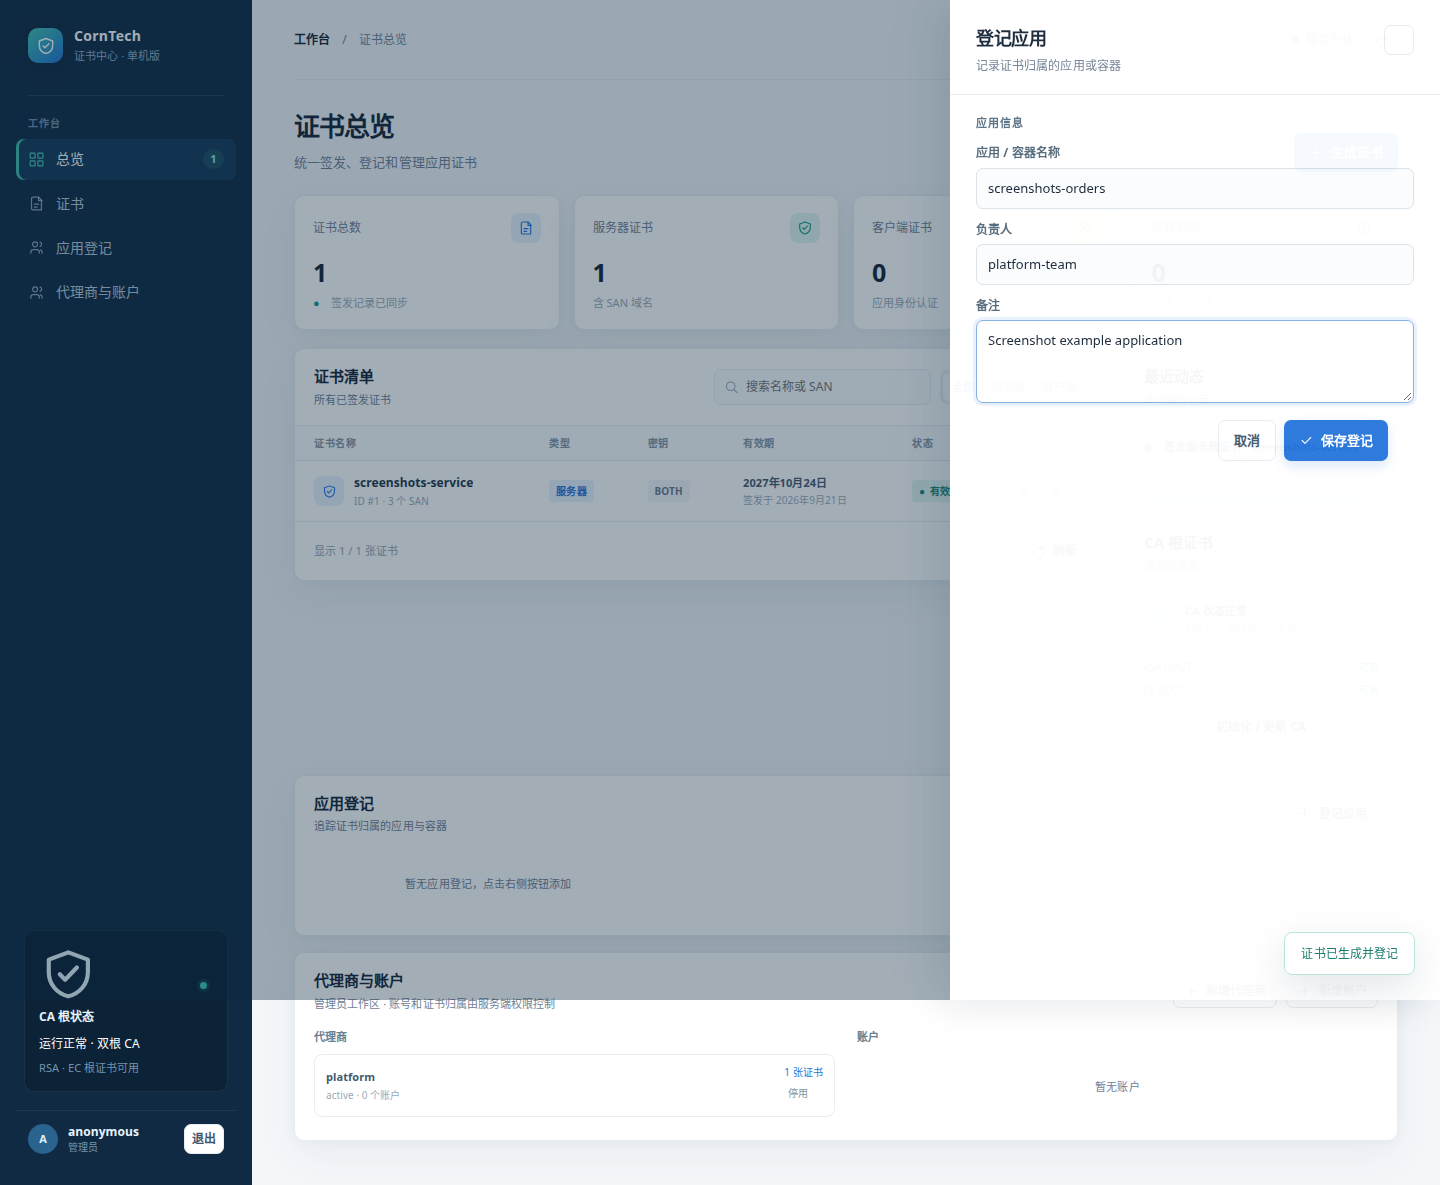
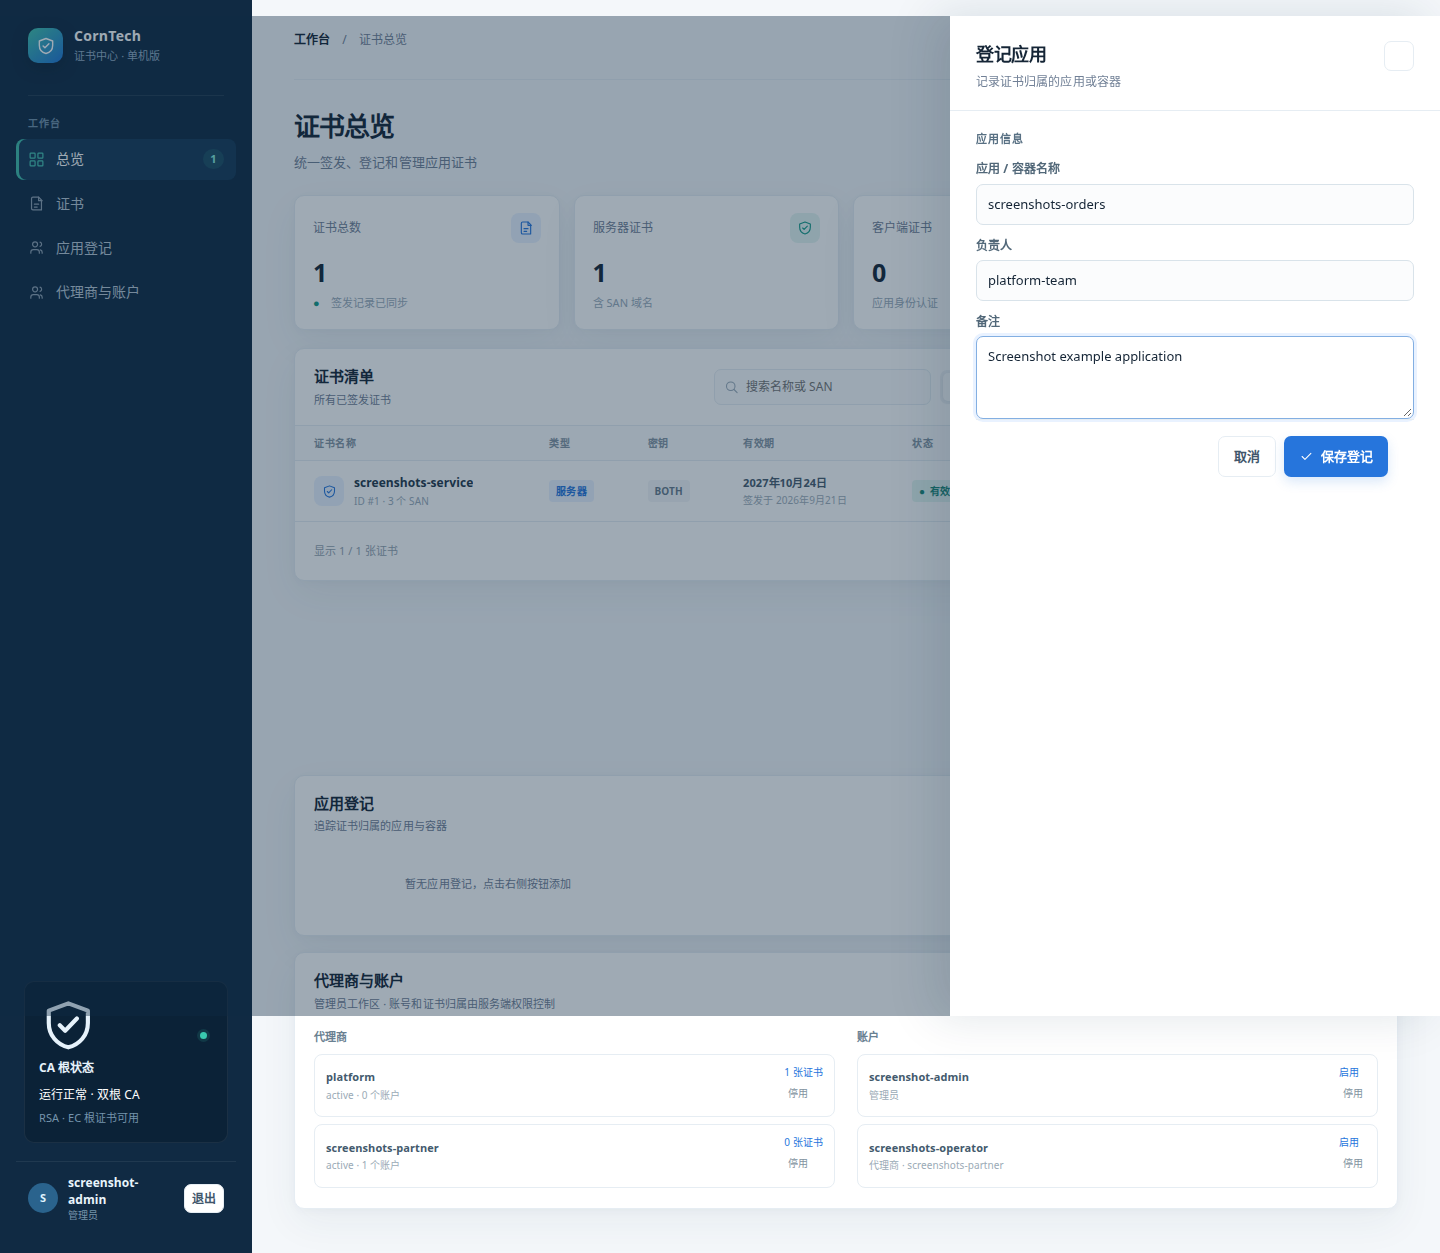
docs: refresh v3 web management screenshots

diff --git a/scripts/capture-screenshots.ts b/scripts/capture-screenshots.ts
@@ -1,4 +1,4 @@
-import { chromium } from 'playwright';
+import { chromium, type Page } from 'playwright';
 import { cp, mkdir, mkdtemp, rm, writeFile } from 'node:fs/promises';
 import { tmpdir } from 'node:os';
 import { join, resolve } from 'node:path';
@@ -7,9 +7,16 @@ const repoRoot = resolve(import.meta.dir, '..');
 const fixtureServer = join(repoRoot, 'e2e', 'fixture-server.py');
 const screenshotDir = join(repoRoot, 'docs', 'screenshots');
 const rootPassword = 'screenshot-root-password';
+const adminUsername = 'screenshot-admin';
+const adminPassword = 'screenshot-admin-password';
+const agentName = 'screenshots-partner';
+const agentUsername = 'screenshots-operator';
+const agentPassword = 'screenshots-operator-password';
 const serverName = 'screenshots-service';
 const clientName = 'screenshots-client';
+const agentCertName = 'screenshots-agent-service';
 const appName = 'screenshots-orders';
+const agentAppName = 'screenshots-agent-orders';
 
 async function waitForReady(process: ReturnType<typeof Bun.spawn>): Promise<string> {
   if (!process.stdout || typeof process.stdout === 'number') throw new Error('fixture server has no stdout');
@@ -30,17 +37,43 @@ async function waitForReady(process: ReturnType<typeof Bun.spawn>): Promise<stri
   throw new Error(`fixture server exited before becoming ready: ${output}`);
 }
 
-async function waitForDashboard(page: import('playwright').Page, baseURL: string): Promise<void> {
-  await page.goto(baseURL, { waitUntil: 'domcontentloaded' });
-  await page.waitForFunction(() => document.querySelector('#connection-text')?.textContent === '服务在线');
-  await page.getByRole('heading', { name: '证书总览' }).waitFor({ state: 'visible' });
+async function screenshot(page: Page, filename: string): Promise<void> {
+  await page.waitForTimeout(450);
+  await page.evaluate(() => { const region = document.querySelector('#toast-region'); if (region) region.innerHTML = ''; });
+  await page.screenshot({ path: join(screenshotDir, filename), fullPage: true });
 }
 
-async function waitForResponse(page: import('playwright').Page, url: string, action: () => Promise<void>): Promise<void> {
-  const response = page.waitForResponse((value) => value.url() === url && value.request().method() === 'POST');
+async function waitForLogin(page: Page, baseURL: string): Promise<void> {
+  await page.goto(baseURL, { waitUntil: 'domcontentloaded' });
+  await page.locator('#login-form').waitFor({ state: 'visible' });
+}
+
+async function login(page: Page, baseURL: string, username: string, password: string): Promise<void> {
+  await waitForLogin(page, baseURL);
+  await page.locator('#login-username').fill(username);
+  await page.locator('#login-password').fill(password);
+  await page.locator('#login-form button[type="submit"]').click();
+  await page.getByRole('heading', { name: '证书总览' }).waitFor({ state: 'visible' });
+  await page.waitForFunction(() => document.querySelector('#connection-text')?.textContent === '服务在线');
+}
+
+async function waitForResponse(page: Page, url: string, method: string, action: () => Promise<void>): Promise<void> {
+  const response = page.waitForResponse((value) => value.url() === url && value.request().method() === method);
   await action();
   const result = await response;
   if (!result.ok()) throw new Error(`request failed: ${result.status()} ${await result.text()}`);
+}
+
+async function apiJson<T>(baseURL: string, path: string, token: string): Promise<T> {
+  const response = await fetch(`${baseURL}${path}`, { headers: { Accept: 'application/json', Authorization: `Bearer ${token}` } });
+  if (!response.ok) throw new Error(`GET ${path}: ${response.status} ${await response.text()}`);
+  return await response.json() as T;
+}
+
+async function apiLogin(baseURL: string): Promise<string> {
+  const response = await fetch(`${baseURL}/api/auth/login`, { method: 'POST', headers: { 'Content-Type': 'application/json' }, body: JSON.stringify({ username: adminUsername, password: adminPassword }) });
+  if (!response.ok) throw new Error(`admin login failed: ${response.status} ${await response.text()}`);
+  return String((await response.json() as { token: string }).token);
 }
 
 await mkdir(screenshotDir, { recursive: true });
@@ -57,34 +90,54 @@ try {
     cp(join(repoRoot, 'gen_client_cert.sh'), join(fixtureRoot, 'gen_client_cert.sh')),
     cp(join(repoRoot, 'scripts'), join(fixtureRoot, 'scripts'), { recursive: true }),
   ]);
-  await writeFile(join(fixtureRoot, '.fixture'), 'screenshots\n');
-  serverProcess = Bun.spawn(['python3', fixtureServer, '--root', fixtureRoot, '--web-dir', join(repoRoot, 'web'), '--allow-anonymous'], {
+  await writeFile(join(fixtureRoot, '.fixture'), 'screenshots-v3\n');
+  serverProcess = Bun.spawn(['python3', fixtureServer, '--root', fixtureRoot, '--web-dir', join(repoRoot, 'web')], {
     cwd: repoRoot,
-    env: { ...process.env, ROOTPASS: rootPassword, WEB_USERNAME: '', WEB_PASSWORD: '' },
+    env: { ...process.env, ROOTPASS: rootPassword, WEB_USERNAME: adminUsername, WEB_PASSWORD: adminPassword, CERT_ALLOW_ANONYMOUS: '' },
     stdout: 'pipe',
     stderr: 'inherit',
   });
   const baseURL = await waitForReady(serverProcess);
+  const adminToken = await apiLogin(baseURL);
   browser = await chromium.launch({ headless: true });
   const page = await browser.newPage({ viewport: { width: 1440, height: 1000 }, deviceScaleFactor: 1 });
   page.setDefaultTimeout(240_000);
 
-  await waitForDashboard(page, baseURL);
-  await page.screenshot({ path: join(screenshotDir, 'dashboard-empty.png'), fullPage: true });
+  await waitForLogin(page, baseURL);
+  await screenshot(page, 'login.png');
+  await login(page, baseURL, adminUsername, adminPassword);
+  await screenshot(page, 'dashboard-empty.png');
 
   await page.locator('[data-action="init-ca"]').click();
-  await page.screenshot({ path: join(screenshotDir, 'ca-initialization.png'), fullPage: true });
+  await screenshot(page, 'ca-initialization.png');
   await page.locator('#ca-rootpass').fill(rootPassword);
-  await waitForResponse(page, `${baseURL}/api/ca/initialize`, async () => page.locator('#ca-form button[type="submit"]').click());
+  await waitForResponse(page, `${baseURL}/api/ca/initialize`, 'POST', async () => page.locator('#ca-form button[type="submit"]').click());
   await page.waitForFunction(() => !document.querySelector('#overlay')?.classList.contains('open'));
   await page.waitForFunction(() => document.querySelector('#ca-status-title')?.textContent === 'CA 状态正常');
+
+  await page.locator('[data-action="create-agent"]').click();
+  await page.locator('#admin-name').fill(agentName);
+  await screenshot(page, 'agent-create.png');
+  await waitForResponse(page, `${baseURL}/api/agents`, 'POST', async () => page.locator('#agent-form button[type="submit"]').click());
+  const agents = await apiJson<{ items: { id: number; name: string }[] }>(baseURL, '/api/agents', adminToken);
+  const agent = agents.items.find((value) => value.name === agentName);
+  if (!agent) throw new Error('created screenshot agent was not returned by the API');
+
+  await page.locator('[data-action="create-account"]').click();
+  await page.locator('#admin-name').fill(agentUsername);
+  await page.locator('#admin-password').fill(agentPassword);
+  await page.locator('#admin-agent-id').fill(String(agent.id));
+  await screenshot(page, 'account-create.png');
+  await waitForResponse(page, `${baseURL}/api/users`, 'POST', async () => page.locator('#account-form button[type="submit"]').click());
+  await page.locator('#account-list').filter({ hasText: agentUsername }).waitFor({ state: 'visible' });
+  await screenshot(page, 'agent-management.png');
 
   await page.locator('[data-action="generate"]').click();
   await page.locator('#issue-name').fill(serverName);
   await page.locator('#issue-sans').fill('api.screenshots.example\n10.0.0.40');
   await page.locator('#issue-key').selectOption('both');
-  await page.screenshot({ path: join(screenshotDir, 'certificate-generation.png'), fullPage: true });
-  await waitForResponse(page, `${baseURL}/api/certificates`, async () => page.locator('#issue-submit').click());
+  await screenshot(page, 'certificate-generation.png');
+  await waitForResponse(page, `${baseURL}/api/certificates`, 'POST', async () => page.locator('#issue-submit').click());
   const serverRow = page.locator('#cert-list tr').filter({ hasText: serverName });
   await serverRow.waitFor({ state: 'visible' });
 
@@ -92,25 +145,44 @@ try {
   await page.locator('#registration-name').fill(appName);
   await page.locator('#registration-owner').fill('platform-team');
   await page.locator('#registration-notes').fill('Screenshot example application');
-  await page.screenshot({ path: join(screenshotDir, 'application-registration.png'), fullPage: true });
-  await waitForResponse(page, `${baseURL}/api/registrations`, async () => page.locator('#registration-form button[type="submit"]').click());
+  await screenshot(page, 'application-registration.png');
+  await waitForResponse(page, `${baseURL}/api/registrations`, 'POST', async () => page.locator('#registration-form button[type="submit"]').click());
   await page.locator('.registration-card').filter({ hasText: appName }).waitFor({ state: 'visible' });
 
   await page.locator('[data-action="generate"]').click();
   await page.locator('input[name="type"][value="client"]').check();
   await page.locator('#issue-name').fill(clientName);
   await page.locator('#issue-key').selectOption('ec');
-  await waitForResponse(page, `${baseURL}/api/certificates`, async () => page.locator('#issue-submit').click());
+  await waitForResponse(page, `${baseURL}/api/certificates`, 'POST', async () => page.locator('#issue-submit').click());
   await page.locator('#cert-list tr').filter({ hasText: clientName }).waitFor({ state: 'visible' });
   await page.waitForFunction(() => !document.querySelector('#overlay')?.classList.contains('open'));
-  await Bun.sleep(350);
+  await screenshot(page, 'dashboard-managed.png');
 
-  await page.screenshot({ path: join(screenshotDir, 'dashboard-managed.png'), fullPage: true });
   await serverRow.locator('[data-action="detail"]').click();
   await page.locator('.drawer h2').filter({ hasText: '证书详情' }).waitFor({ state: 'visible' });
-  await page.screenshot({ path: join(screenshotDir, 'certificate-detail.png'), fullPage: true });
+  await screenshot(page, 'certificate-detail.png');
+  await page.locator('.close-button').click();
 
-  console.log(`Screenshots written to ${screenshotDir}`);
+  const agentPage = await browser.newPage({ viewport: { width: 1440, height: 1000 }, deviceScaleFactor: 1 });
+  agentPage.setDefaultTimeout(240_000);
+  await login(agentPage, baseURL, agentUsername, agentPassword);
+  await screenshot(agentPage, 'agent-workspace.png');
+  await agentPage.locator('[data-action="generate"]').click();
+  await agentPage.locator('#issue-name').fill(agentCertName);
+  await agentPage.locator('#issue-sans').fill('agent.screenshots.example');
+  await agentPage.locator('#issue-key').selectOption('rsa');
+  await screenshot(agentPage, 'agent-certificate-generation.png');
+  await waitForResponse(agentPage, `${baseURL}/api/certificates`, 'POST', async () => agentPage.locator('#issue-submit').click());
+  await agentPage.locator('#cert-list tr').filter({ hasText: agentCertName }).waitFor({ state: 'visible' });
+  await agentPage.locator('[data-action="register"]').click();
+  await agentPage.locator('#registration-name').fill(agentAppName);
+  await agentPage.locator('#registration-owner').fill(agentUsername);
+  await waitForResponse(agentPage, `${baseURL}/api/registrations`, 'POST', async () => agentPage.locator('#registration-form button[type="submit"]').click());
+  await agentPage.locator('.registration-card').filter({ hasText: agentAppName }).waitFor({ state: 'visible' });
+  await screenshot(agentPage, 'agent-workspace-managed.png');
+  await agentPage.close();
+
+  console.log(`V3 screenshots written to ${screenshotDir}`);
 } finally {
   await browser?.close();
   serverProcess?.kill();

diff --git a/README.md b/README.md
@@ -88,7 +88,11 @@ POST /api/registrations
 
 ### 管理界面截图
 
-下面的截图来自隔离的 E2E 运行环境，展示了从首次进入到证书详情的主要管理界面。可以用 `bun run screenshots` 重新生成。
+下面的截图来自隔离的 v3 E2E 运行环境，覆盖登录、管理员代理商/账户管理、CA 初始化、证书和应用操作，以及代理商工作区。可以用 `bun run screenshots` 重新生成全部截图。
+
+#### 登录入口
+
+![登录证书中心](docs/screenshots/login.png)
 
 #### 证书总览（首次进入）
 
@@ -113,6 +117,30 @@ POST /api/registrations
 #### 证书详情和文件下载
 
 ![证书详情](docs/screenshots/certificate-detail.png)
+
+#### 新增代理商
+
+![新增代理商](docs/screenshots/agent-create.png)
+
+#### 新增代理商账户
+
+![新增代理商账户](docs/screenshots/account-create.png)
+
+#### 管理员代理商与账户工作区
+
+![管理员代理商与账户工作区](docs/screenshots/agent-management.png)
+
+#### 代理商工作区
+
+![代理商工作区](docs/screenshots/agent-workspace.png)
+
+#### 代理商生成证书
+
+![代理商生成证书](docs/screenshots/agent-certificate-generation.png)
+
+#### 代理商工作区（已有证书和应用）
+
+![代理商工作区已有证书和应用](docs/screenshots/agent-workspace-managed.png)
 
 构建后的页面只依赖浏览器原生 JavaScript；在线服务面向单机/内网集中管控。静态入口保持可访问，API 通过管理员/代理商登录和 Bearer 会话保护；配置 `WEB_USERNAME` / `WEB_PASSWORD` 时仍兼容管理员 Basic Auth。证书吊销、自动续期和计费结算不在第一版范围内。
 
